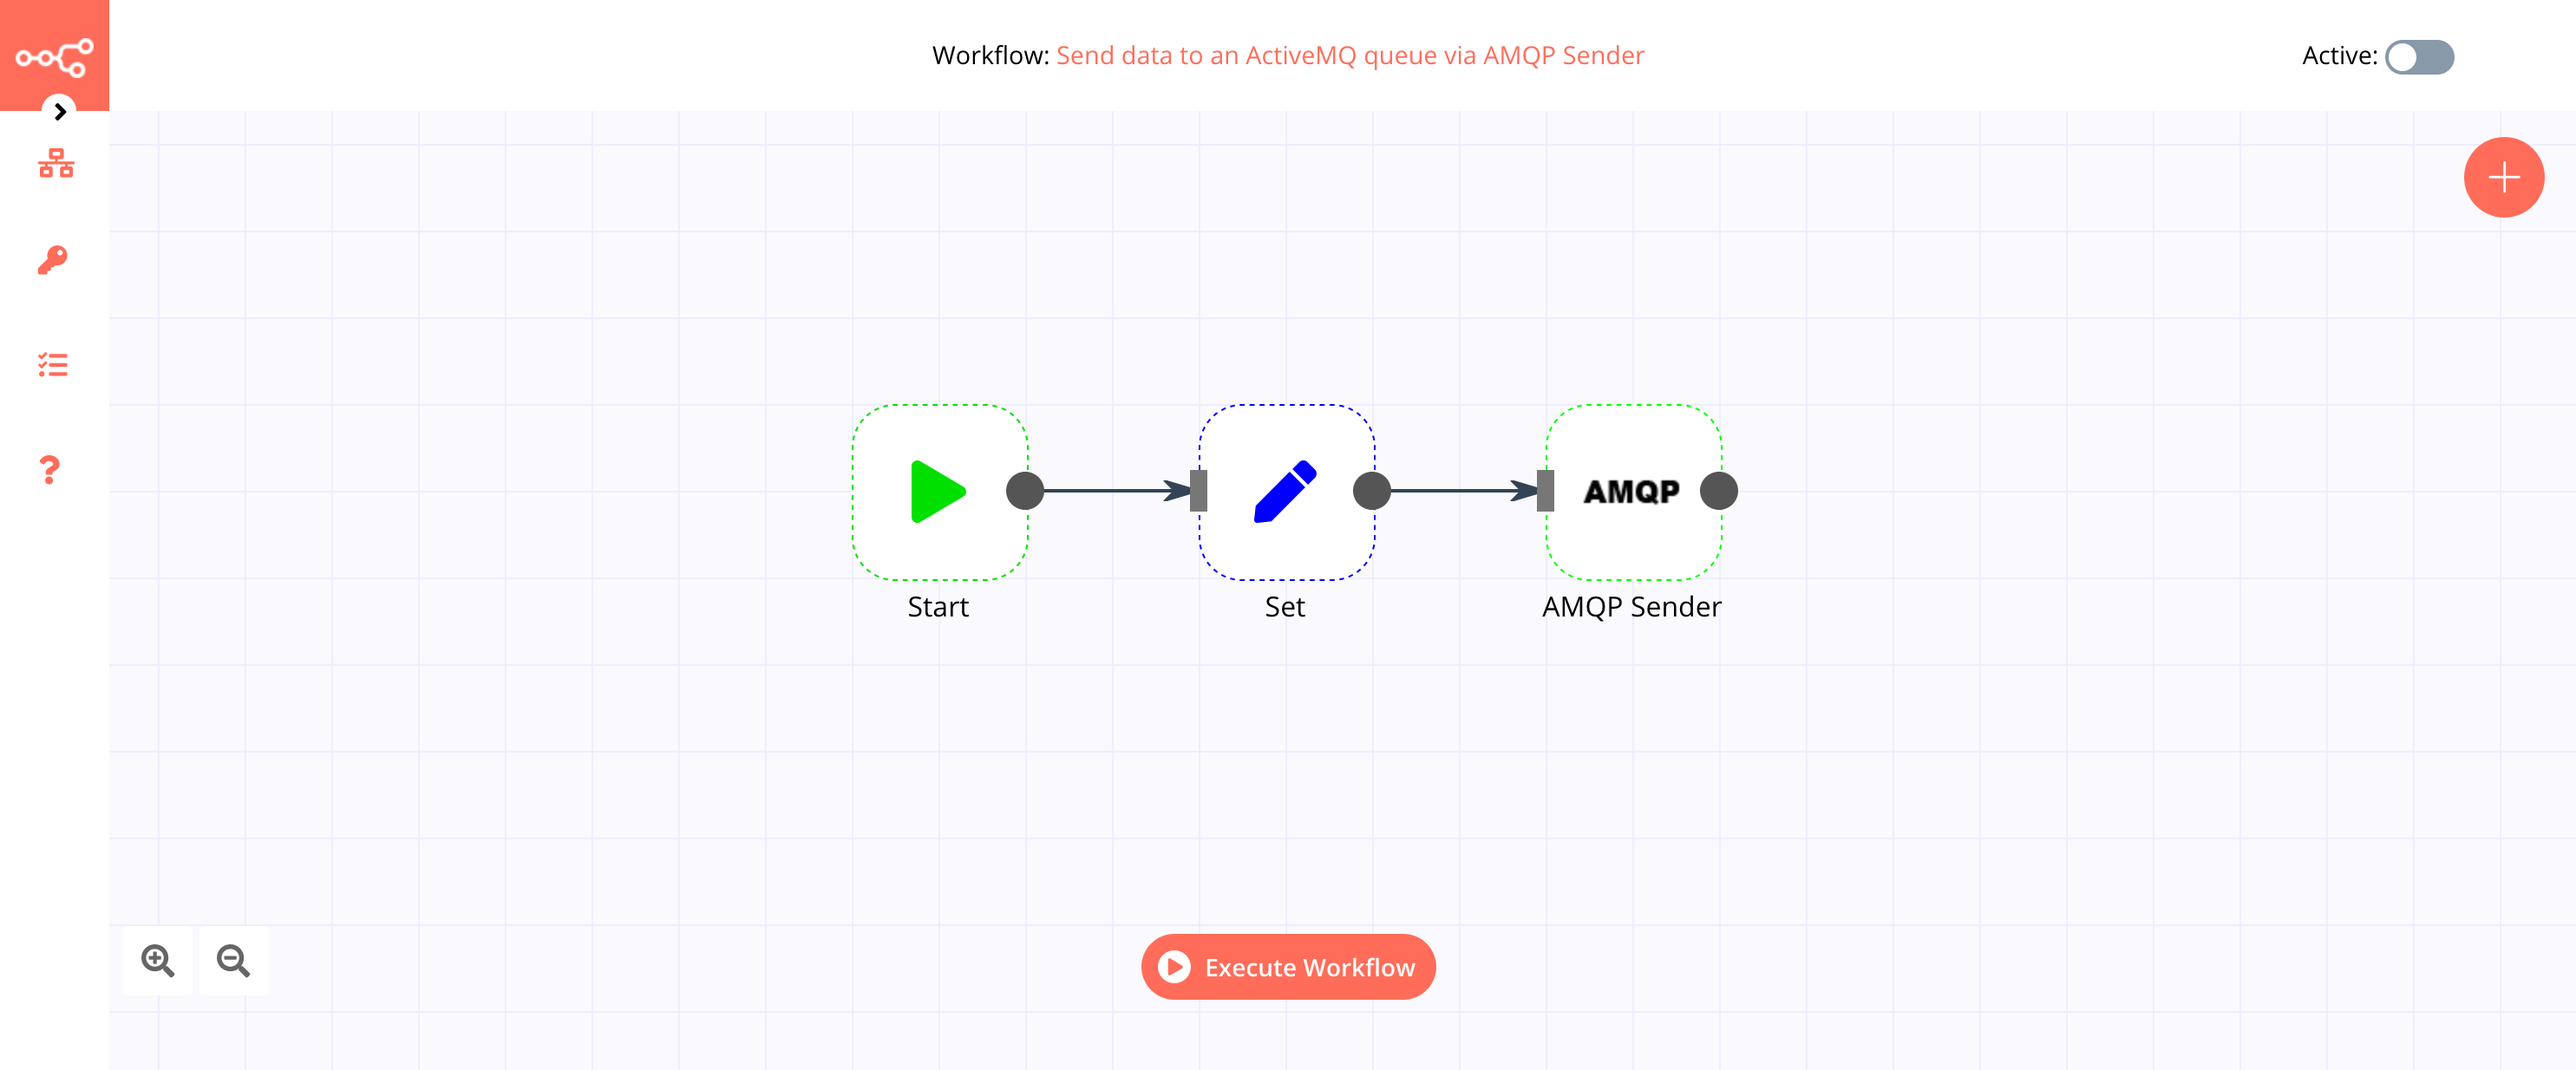
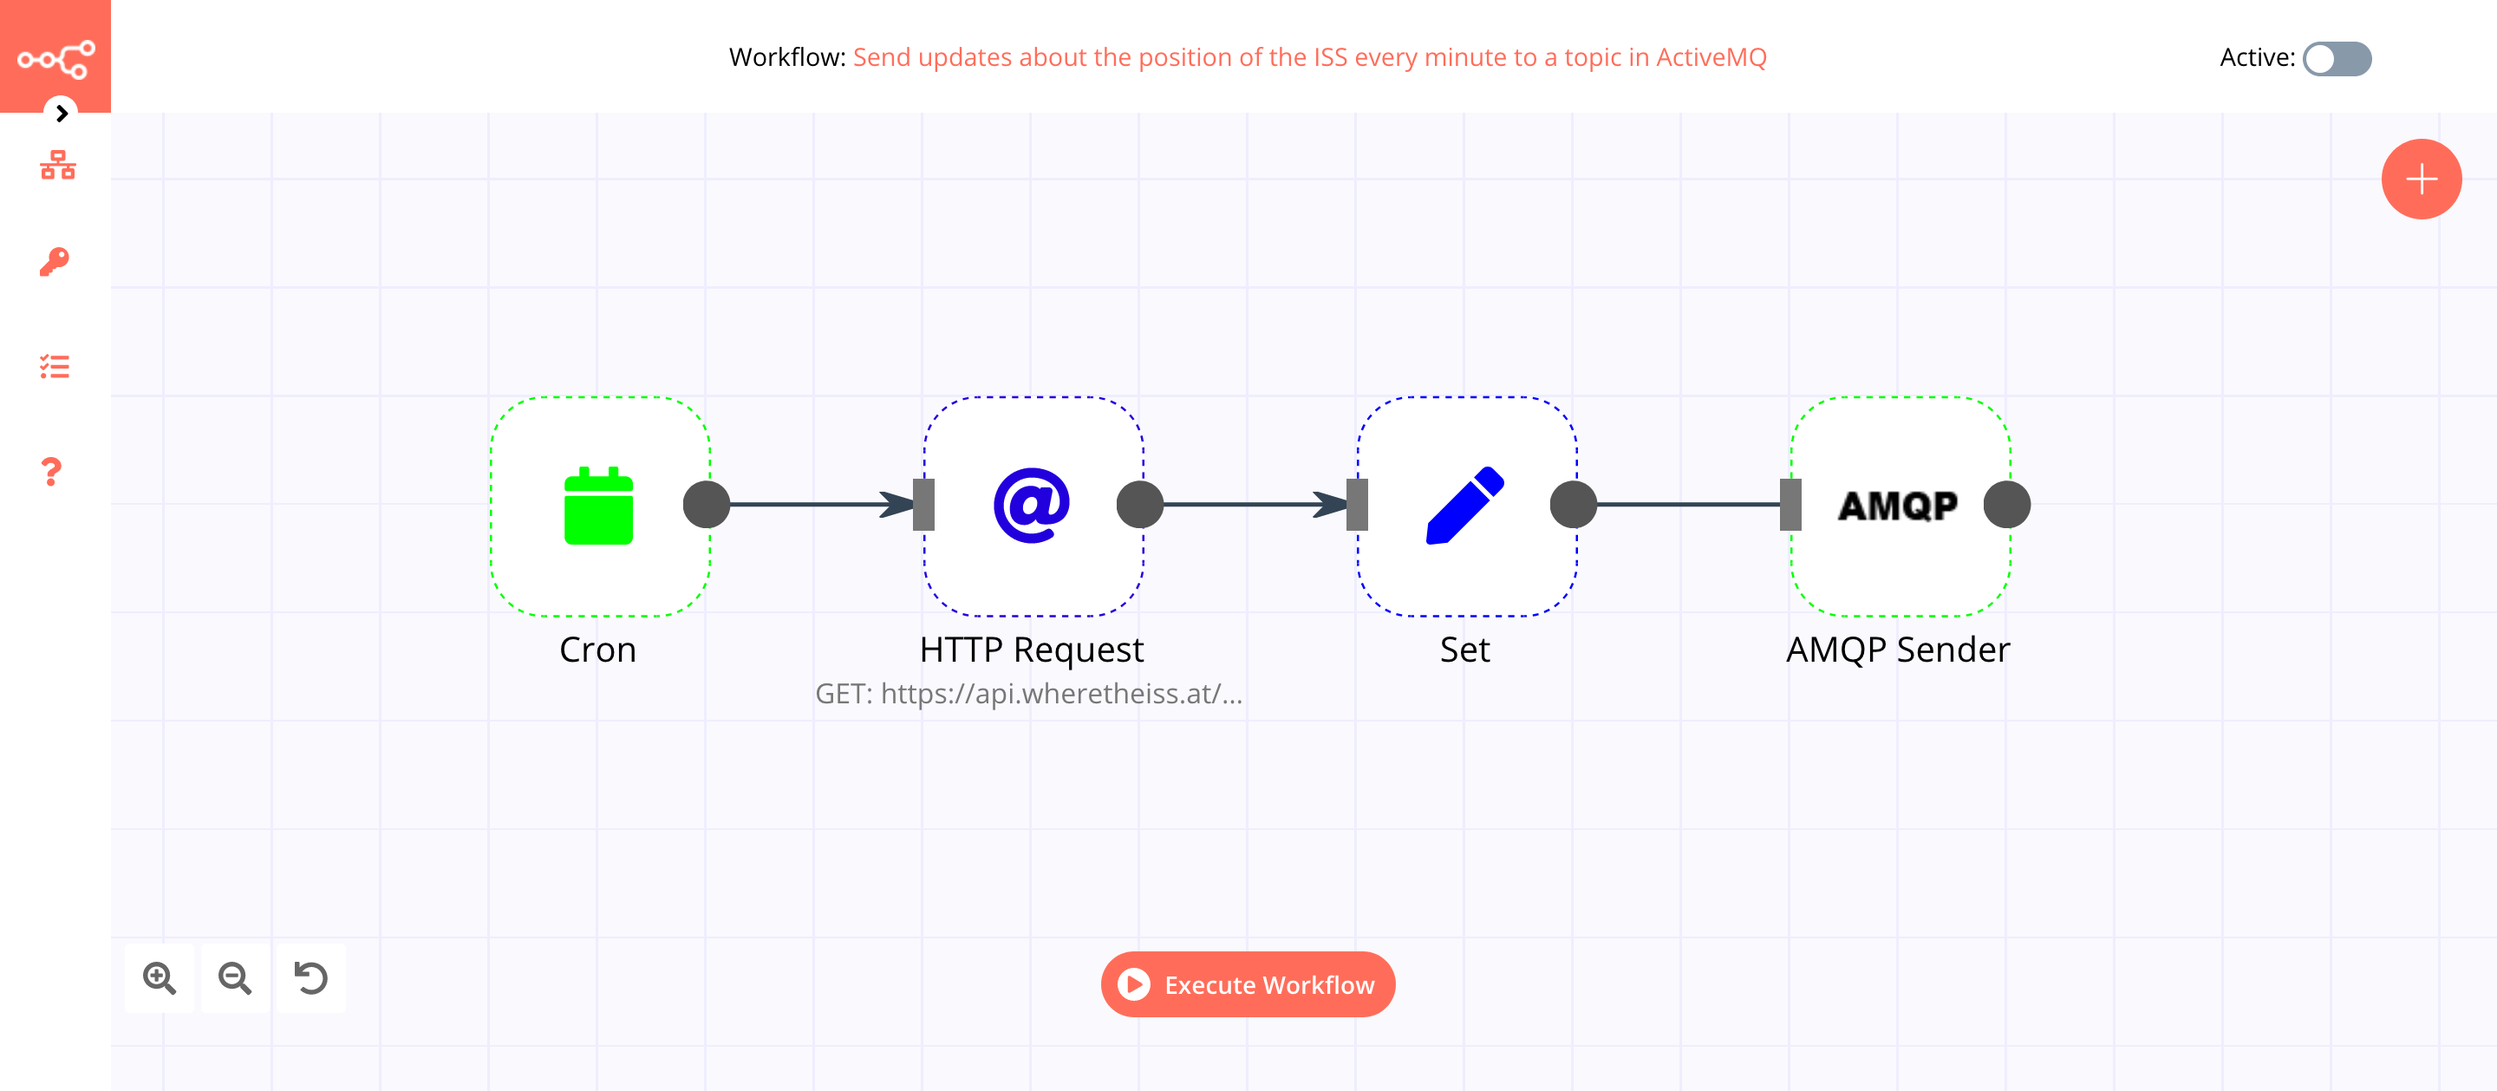
⚡ Update example usage workflow

diff --git a/docs/nodes/nodes-library/nodes/AMQPSender/README.md b/docs/nodes/nodes-library/nodes/AMQPSender/README.md
@@ -18,8 +18,9 @@ You can find authentication information for this node [here](../../../credential
 
 ## Example Usage
 
-This workflow allows you to send a message to an [ActiveMQ](https://activemq.apache.org/) queue via AMQP Sender. You can also find the [workflow](https://n8n.io/workflows/512) on the website. This example usage workflow would use the following three nodes.
-- [Start](../../core-nodes/Start/README.md)
+This workflow allows you to send updates about the position of the ISS every minute to an [ActiveMQ](https://activemq.apache.org/) queue using the AMQP Sender node. You can also find the [workflow](https://n8n.io/workflows/762) on n8n.io. This example usage workflow uses the following nodes.
+- [Cron](../../core-nodes/Cron/README.md)
+- [HTTP Request](../../core-nodes/HTTPRequest/README.md)
 - [Set](../../core-nodes/Set/README.md)
 - [AMQP Sender]()
 
@@ -27,21 +28,71 @@ The final workflow should look like the following image.
 
 ![A workflow with the AMQP Sender node](./workflow.png)
 
-### 1. Start node
+### 1. Cron node
 
-The start node exists by default when you create a new workflow.
+The Cron node will trigger the workflow every minute.
 
-### 2. Set node
+1. Click on ***Add Cron Time***.
+2. Select 'Every Minute' from the ***Mode*** dropdown list.
+3. Click on ***Execute Node*** to run the node.
 
-1. Click on the *Add Value* button and select 'String' from the dropdown list.
-2. Enter `my_key`in the *Name* field.
-3. Enter `my_value` in the *Value* field.
+In the screenshot below, you will notice that the Cron node is configured to trigger the workflow every minute.
 
-### 3. AMQP Sender node
+![Using the Cron node to trigger the workflow every minute](./Cron_node.png)
+
+### 2. HTTP Request node (GET)
+
+This node will make a GET request to the API `https://api.wheretheiss.at/v1/satellites/25544/positions` to fetch the position of the ISS. This information gets passed on to the next node in the workflow.
+::: v-pre
+1. Enter `https://api.wheretheiss.at/v1/satellites/25544/positions` in the ***URL*** field. 
+2. Click on the ***Add Parameter*** button in the ***Query Parameters*** section.
+3. Enter `timestamps` in the ***Name*** field.
+4. Click on the gears icon next to the ***Value*** field and click on ***Add Expression***.
+5. Enter the following expression: `{{Date.now()}}`. This expression will return the current timestamp.
+6. Click on ***Execute Node*** to run the node.
+:::
+In the screenshot below, you will notice that the node makes a GET request to the API and returns the information about the location of the ISS.
+
+![Using the HTTP Request node to get the information about the location of the ISS](./HTTPRequest_node.png)
+
+### 3. Set node
+
+We will use the Set node to ensure that only the data that we set in this node gets passed on to the next nodes in the workflow.
+::: v-pre
+1. Click on ***Add Value*** and select 'String' from the dropdown list.
+2. Enter `Name` in the ***Name*** field.
+3. Click on the gears icon next to the ***Value*** field and click on ***Add Expression***.
+4. Select the following in the ***Variable Selector*** section: Nodes > HTTP Request > Output Data > JSON > 0 > name. You can also add the following expression: `{{$node["HTTP Request"].json["0"]["name"]}}`.
+5. Click on ***Add Value*** and select 'String' from the dropdown list.
+6. Enter `Latitude` in the ***Name*** field.
+7. Click on the gears icon next to the ***Value*** field and click on ***Add Expression***.
+8. Select the following in the ***Variable Selector*** section: Nodes > HTTP Request > Output Data > JSON > 0 > latitude. You can also add the following expression: `{{$node["HTTP Request"].json["0"]["latitude"]}}`.
+9. Click on ***Add Value*** and select 'String' from the dropdown list.
+10. Enter `Longitude` in the ***Name*** field.
+11. Click on the gears icon next to the ***Value*** field and click on ***Add Expression***.
+12. Select the following in the ***Variable Selector*** section: Nodes > HTTP Request > Output Data > JSON > 0 > longitude. You can also add the following expression: `{{$node["HTTP Request"].json["0"]["longitude"]}}`.
+13. Click on ***Add Value*** and select 'String' from the dropdown list.
+14. Enter `Timestamp` in the ***Name*** field.
+15. Click on the gears icon next to the ***Value*** field and click on ***Add Expression***.
+16. Select the following in the ***Variable Selector*** section: Nodes > HTTP Request > Output Data > JSON > 0 > timpestamp. You can also add the following expression: `{{$node["HTTP Request"].json["0"]["timestamp"]}}`.
+17. Toggle ***Keep Only Set*** to `true`. We set this option to true to ensure that only the data that we have set in this node get passed on to the next nodes in the workflow.
+18. Click on ***Execute Node*** to run the node.
+:::
+In the screenshot below, you will notice that the node uses the data from the previous node and returns the data that we set for the workflow.
+
+![Using the Set node to set the data](./Set_node.png)
+
+### 4. AMQP Sender node
+
+This node will send the data from the previous node to the `iss-position` queue in ActiveMQ. If you have created a queue with a different name in ActiveMQ, you can use that queue instead.
 
 1. First of all, you'll have to enter credentials for the AMQP Sender node. You can find out how to do that [here](../../../credentials/AMQP/README.md).
-2. Enter the name of the queue or topic in the *Queue / Topic* field.
-3. Click on *Execute Node* to run the workflow.
+2. Enter the name of the queue or topic in the ***Queue / Topic*** field.
+3. Click on ***Execute Node*** to run the node.
+
+In the screenshot below, you will notice that the node sends the data from the previous node to the `iss-position` queue in ActiveMQ.
+
+![Using the AMQP Sender node to send the data to a queue](./AMQPSender_node.png)
 
 ## Further Reading
 
